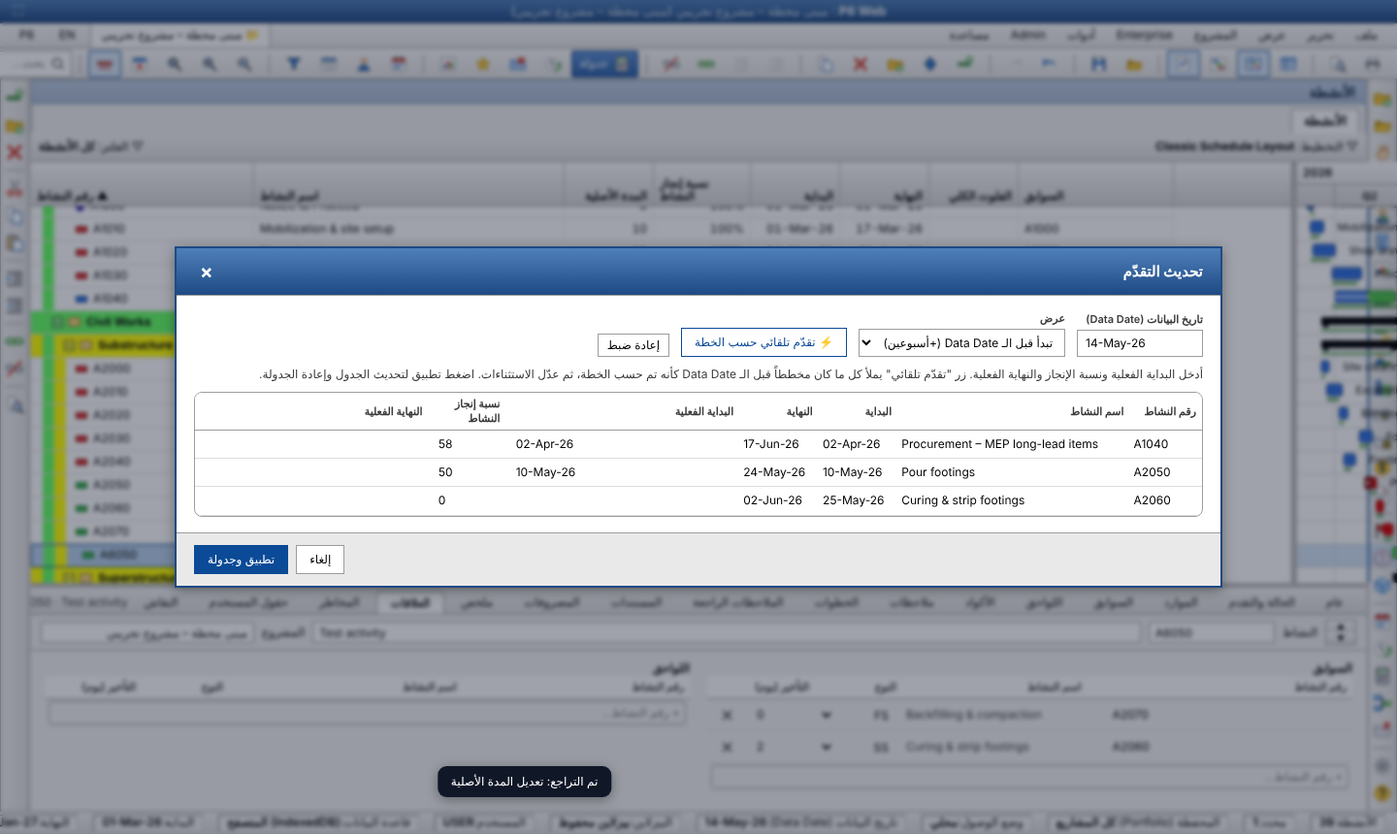
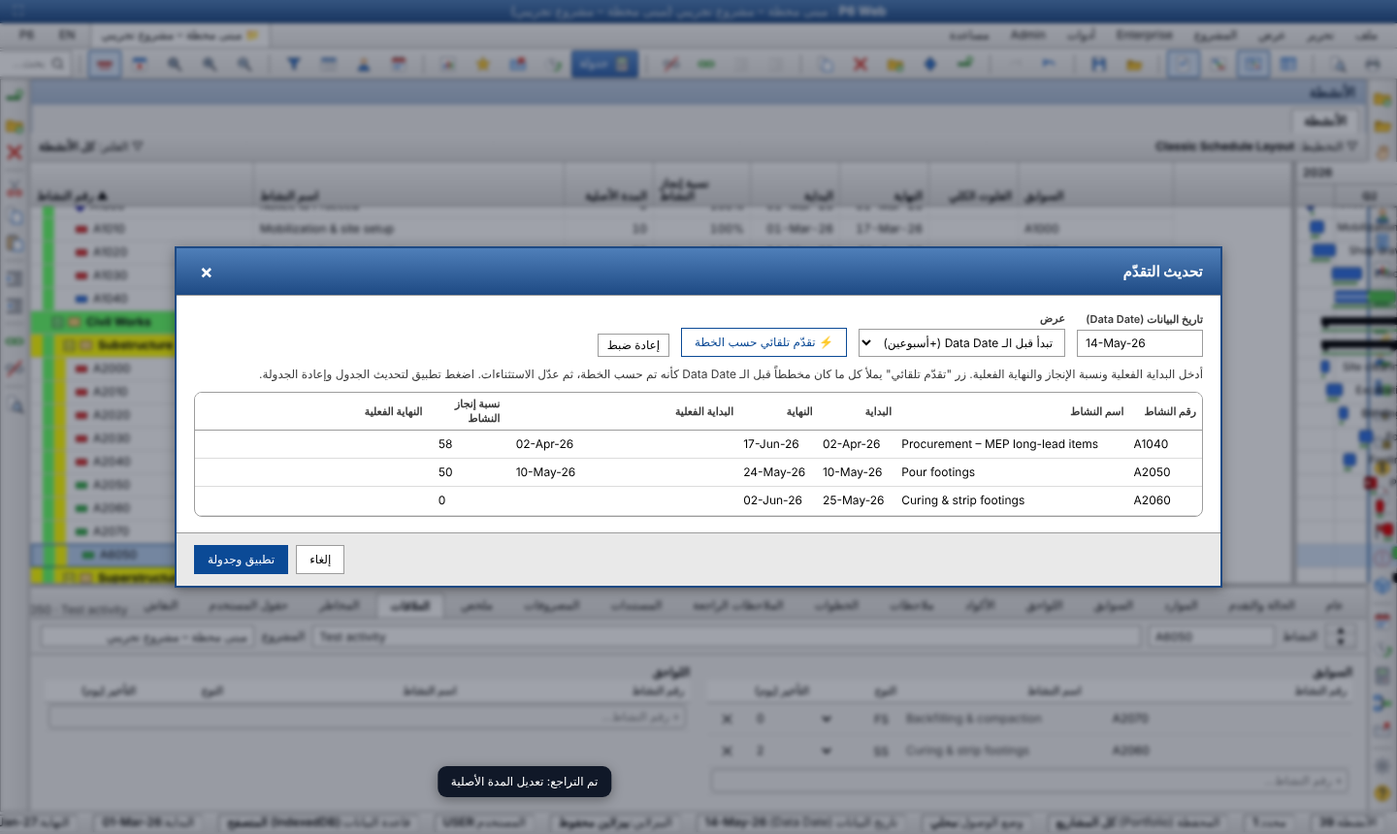
Group and Sort matches P6 (side buttons, Page Break), UI size setting, details tab strip fix (#177)
Claude-Session: https://claude.ai/code/session_01DNKDuzURuxssrGYREb4oVz

diff --git a/p6-web/js/grouping.js b/p6-web/js/grouping.js
@@ -105,7 +105,7 @@
       const cd = L.indent === false ? depth : depth + 1, color = L.color || PAL[li % PAL.length];
       for (const grp of list) {
         const id = 'g:' + path + '/' + li + ':' + grp.v.k;
-        reg(id, grp.ts); rows.push({ kind: 'g', id, level: depth, w: { id, name: grp.v.label, code: '' }, hasKids: true, color });
+        reg(id, grp.ts); rows.push({ kind: 'g', id, level: depth, w: { id, name: grp.v.label, code: '' }, hasKids: true, color, pb: !!L.pbreak });
         S.levelColors[depth] = color;
         if (S.collapsed.has(id) && !o.filtering) continue;
         level(grp.ts, li + 1, cd, path + '/' + id);
@@ -125,19 +125,19 @@
       const out = []; const lv = G.levels;
       lv.forEach((L, i) => {
         const wbs = L.by === 'wbs', color = wbs ? (G.wbsColors || WBS_PAL)[0] : (L.color || PAL[i % PAL.length]);
-        out.push(`<tr data-i="${i}" class="${selI === i ? 'on' : ''}"><td><select data-k="by">${fields.map(([k, l]) => `<option value="${esc(k)}"${L.by === k ? ' selected' : ''}>${esc(wbs && k === 'wbs' ? 'WBS ' + t('grp_level') + ' 1' : l)}</option>`).join('')}<option value="">${esc(t('grp_none'))}</option></select></td><td style="text-align:center"><input type="checkbox" data-k="indent"${L.indent !== false ? ' checked' : ''}></td><td><input data-k="toLevel" value="${esc(wbs ? L.toLevel || 'All' : '')}"${wbs ? '' : ' disabled'} style="width:70px"></td><td><input data-k="interval" value="${esc(L.interval || '')}" placeholder="${/^(es|ef)$/.test(L.by) ? 'Month' : /^(pct|tf|dur)$/.test(L.by) ? '10' : ''}" style="width:90px"></td><td><input type="color" data-k="color" value="${color}"> <span style="color:#666;font-size:11px">8 Arial</span></td></tr>`);
-        if (wbs) for (let w = 1; w < 5; w++) out.push(`<tr class="wl"><td style="color:#888;padding-inline-start:20px">WBS ${esc(t('grp_level'))} ${w + 1}</td><td></td><td></td><td></td><td><input type="color" data-w="${w}" value="${(G.wbsColors || WBS_PAL)[w]}"></td></tr>`);
+        out.push(`<tr data-i="${i}" class="${selI === i ? 'on' : ''}"><td><select data-k="by">${fields.map(([k, l]) => `<option value="${esc(k)}"${L.by === k ? ' selected' : ''}>${esc(wbs && k === 'wbs' ? 'WBS ' + t('grp_level') + ' 1' : l)}</option>`).join('')}<option value="">${esc(t('grp_none'))}</option></select></td><td style="text-align:center"><input type="checkbox" data-k="indent"${L.indent !== false ? ' checked' : ''}></td><td><input data-k="toLevel" value="${esc(wbs ? L.toLevel || 'All' : '')}"${wbs ? '' : ' disabled'} style="width:70px"></td><td><input data-k="interval" value="${esc(L.interval || '')}" placeholder="${/^(es|ef)$/.test(L.by) ? 'Month' : /^(pct|tf|dur)$/.test(L.by) ? '10' : ''}" style="width:90px"></td><td style="text-align:center"><input type="checkbox" data-k="pbreak"${L.pbreak ? ' checked' : ''}></td><td><input type="color" data-k="color" value="${color}"> <span style="color:#666;font-size:11px">8 Arial</span></td></tr>`);
+        if (wbs) for (let w = 1; w < 5; w++) out.push(`<tr class="wl"><td style="color:#888;padding-inline-start:20px">WBS ${esc(t('grp_level'))} ${w + 1}</td><td></td><td></td><td></td><td></td><td><input type="color" data-w="${w}" value="${(G.wbsColors || WBS_PAL)[w]}"></td></tr>`);
       });
-      if (lv.length < 8) out.push(`<tr data-i="${lv.length}" class="${selI === lv.length ? 'on' : ''}"><td><select data-k="by" data-new="1"><option value="">—</option>${fields.map(([k, l]) => `<option value="${esc(k)}">${esc(l)}</option>`).join('')}</select></td><td></td><td></td><td></td><td></td></tr>`);
+      if (lv.length < 8) out.push(`<tr data-i="${lv.length}" class="${selI === lv.length ? 'on' : ''}"><td><select data-k="by" data-new="1"><option value="">—</option>${fields.map(([k, l]) => `<option value="${esc(k)}">${esc(l)}</option>`).join('')}</select></td><td></td><td></td><td></td><td></td><td></td></tr>`);
       return out.join('');
     };
     const draw = () => {
       const L = G.levels[selI] || null;
-      body.innerHTML = `<div class="gd-main"><fieldset><legend>${esc(t('grp_display'))}</legend><label class="chk"><input type="checkbox" id="gd_tot"${G.totals !== false ? ' checked' : ''}> ${esc(t('grp_totals'))}</label><label class="chk" style="margin-inline-start:22px"><input type="checkbox" id="gd_grand"${G.grand ? ' checked' : ''}${G.totals === false ? ' disabled' : ''}> ${esc(t('grp_grand'))}</label><label class="chk" style="margin-inline-start:22px"><input type="checkbox" id="gd_sum"${G.summ ? ' checked' : ''}> ${esc(t('grp_summ'))}</label><label class="chk"><input type="checkbox" id="gd_shr"${G.shrink ? ' checked' : ''}> ${esc(t('grp_shrink'))}</label></fieldset>
-        <fieldset><legend>${esc(t('grp_by'))}</legend><div class="gd-tbl"><table class="mini"><thead><tr><th>${esc(t('grp_by'))}</th><th style="width:60px">${esc(t('grp_indent'))}</th><th style="width:90px">${esc(t('grp_tolevel'))}</th><th style="width:110px">${esc(t('grp_interval'))}</th><th style="width:130px">${esc(t('grp_fontcolor'))}</th></tr></thead><tbody>${rowsHtml()}</tbody></table></div></fieldset>
+      body.innerHTML = `<div class="gd-wrap"><div class="gd-main"><fieldset><legend>${esc(t('grp_display'))}</legend><label class="chk"><input type="checkbox" id="gd_tot"${G.totals !== false ? ' checked' : ''}> ${esc(t('grp_totals'))}</label><label class="chk" style="margin-inline-start:22px"><input type="checkbox" id="gd_grand"${G.grand ? ' checked' : ''}${G.totals === false ? ' disabled' : ''}> ${esc(t('grp_grand'))}</label><label class="chk" style="margin-inline-start:22px"><input type="checkbox" id="gd_sum"${G.summ ? ' checked' : ''}> ${esc(t('grp_summ'))}</label><label class="chk"><input type="checkbox" id="gd_shr"${G.shrink ? ' checked' : ''}> ${esc(t('grp_shrink'))}</label></fieldset>
+        <fieldset><legend>${esc(t('grp_by'))}</legend><div class="gd-tbl"><table class="mini"><thead><tr><th>${esc(t('grp_by'))}</th><th style="width:60px">${esc(t('grp_indent'))}</th><th style="width:90px">${esc(t('grp_tolevel'))}</th><th style="width:110px">${esc(t('grp_interval'))}</th><th style="width:70px">${esc(t('grp_pbreak'))}</th><th style="width:130px">${esc(t('grp_fontcolor'))}</th></tr></thead><tbody>${rowsHtml()}</tbody></table></div></fieldset>
         <fieldset><legend>${esc(t('grp_options'))}</legend><label class="chk"><input type="checkbox" id="go_he"${L && L.hideEmpty ? ' checked' : ''}${L && /^ac:/.test(L.by) ? '' : ' disabled'}> ${esc(t('grp_hideempty'))}</label><label class="chk"><input type="checkbox" id="go_al"${L && L.alpha ? ' checked' : ''}${L && L.by !== 'wbs' ? '' : ' disabled'}> ${esc(t('grp_alpha'))}</label><div style="margin-top:6px">${esc(t('grp_show'))}:</div>
         ${['title', 'id', 'name'].map((k) => `<label class="chk" style="margin-inline-start:12px"><input type="checkbox" data-sh="${k}"${L && L.show && L.show[k] ? ' checked' : ''}${L && /^ac:/.test(L.by) ? '' : ' disabled'}> ${esc(t('grp_show_' + k))}</label>`).join('')}</fieldset></div>
-        <div class="cd-btns"><button class="btn pri" data-a="ok">✔ ${esc(t('ok'))}</button><button class="btn" data-a="cancel">⦸ ${esc(t('cancel'))}</button><button class="btn" data-a="apply">${esc(t('apply'))}</button><button class="btn" data-a="del"${L ? '' : ' disabled'}>${esc(t('delete'))}</button><button class="btn" data-a="sort">${esc(t('grp_sort'))}</button><button class="btn" data-a="default">▶ ${esc(t('default'))}</button><button class="btn" data-a="help">? ${esc(t('help'))}</button></div>`;
+<div class="gd-side"><button class="btn pri" data-a="ok"><b class="gi" style="color:#2e9b2e">✔</b>${esc(t('ok'))}</button><button class="btn" data-a="cancel"><b class="gi" style="color:#d03a2f">⦸</b>${esc(t('cancel'))}</button><hr><button class="btn" data-a="apply"><b class="gi" style="color:#2f6fc4">▤</b>${esc(t('apply'))}</button><button class="btn" data-a="del"${L ? '' : ' disabled'}><b class="gi" style="color:#d03a2f">✖</b>${esc(t('delete'))}</button><hr><button class="btn" data-a="sort"><b class="gi" style="color:#2b3340">▭</b>${esc(t('grp_sort'))}…</button><button class="btn" data-a="default"><b class="gi" style="color:#2e9b2e">▶</b>${esc(t('default'))}</button><hr><button class="btn" data-a="help"><b class="gi" style="color:#e0a800">?</b>${esc(t('help'))}</button></div></div>`;
     };
     draw();
     const m = D.modal({ title: t('group_sort').replace('…', ''), cls: 'wide grpmodal', body, buttons: [], sticky: true });
@@ -152,7 +152,7 @@
         const i = +x.closest('tr').dataset.i; let L = G.levels[i];
         if (x.dataset.new) { if (x.value) { G.levels.push(newLevel(x.value)); selI = G.levels.length - 1; } }
         else if (x.dataset.k === 'by') { if (!x.value) G.levels.splice(i, 1); else L.by = x.value; if (L && L.by === 'wbs') L.toLevel = 'All'; }
-        else if (x.dataset.k === 'indent') L.indent = x.checked; else if (x.dataset.k === 'color') { if (L.by === 'wbs') { G.wbsColors = (G.wbsColors || WBS_PAL).slice(); G.wbsColors[0] = x.value; } else L.color = x.value; }
+        else if (x.dataset.k === 'indent') L.indent = x.checked; else if (x.dataset.k === 'pbreak') L.pbreak = x.checked; else if (x.dataset.k === 'color') { if (L.by === 'wbs') { G.wbsColors = (G.wbsColors || WBS_PAL).slice(); G.wbsColors[0] = x.value; } else L.color = x.value; }
         else L[x.dataset.k] = x.value;
       }
       draw();

diff --git a/p6-web/js/i18n2.js b/p6-web/js/i18n2.js
@@ -52,5 +52,7 @@
     grp_help_html: ['<p>Choose what to group by (WBS, Status, Float, Activity Codes…) up to 8 levels. <b>Sort</b> sets the order inside groups. Group bands show totals for cost, units and durations.</p>', '<p>اختر معيار التجميع (WBS، الحالة، الفلوت، Activity Codes…) حتى 8 مستويات. زر <b>Sort</b> يحدد الترتيب داخل المجموعات. صفوف المجموعات تعرض إجماليات التكلفة والوحدات والمدد.</p>'],
     // menus (round: Tools / Enterprise / Admin)
     applyact_done: ['Actuals applied to {0} activities', 'تم تطبيق الفعلي على {0} نشاط'], gc_all: ['All visible activities', 'كل الأنشطة المعروضة'], gc_done: ['{0} activities changed', 'تم تغيير {0} نشاط'], gc_field: ['Field', 'الحقل'], gc_find: ['Find (optional)', 'بحث (اختياري)'], gc_hint: ['Name: replaces "Find" with the value, or prefixes the value if Find is empty. Calendar: type the calendar name.', 'الاسم: يستبدل نص البحث بالقيمة أو يضيفها كبادئة. التقويم: اكتب اسم التقويم.'], gc_scope: ['Apply to', 'تطبيق على'], gc_sel: ['Selected activities', 'الأنشطة المحددة'], gc_value: ['New value', 'القيمة الجديدة'], mi_actdetails: ['Activity Details', 'تفاصيل النشاط'], mi_admincat: ['Admin Categories…', 'تصنيفات الإدارة…'], mi_adminprefs: ['Admin Preferences…', 'تفضيلات الإدارة…'], mi_applyact: ['Apply Actuals…', 'تطبيق الفعلي (Apply Actuals)…'], mi_asgcodes: ['Assignment Codes…', 'Assignment Codes…'], mi_barsopts: ['Bar Chart Options…', 'خيارات المخطط الشريطي…'], mi_checker: ['Project Checker…', 'فاحص المشروع…'], mi_currency: ['Currencies…', 'العملات…'], mi_curves: ['Resource Curves…', 'منحنيات الموارد…'], mi_disreorg: ['Disable Auto-Reorganization', 'تعطيل إعادة التنظيم التلقائي'], mi_eps: ['Enterprise Project Structure…', 'هيكل المشاريع (EPS)…'], mi_extapps: ['External Applications…', 'تطبيقات خارجية…'], mi_filters: ['Filters', 'الفلاتر'], mi_finperiod: ['Financial Period Calendars…', 'تقاويم الفترات المالية…'], mi_funding: ['Funding Sources…', 'مصادر التمويل…'], mi_gchange: ['Global Change…', 'تغيير شامل (Global Change)…'], mi_hide: ['Hide', 'إخفاء'], mi_issuenav: ['Issue Navigator…', 'متصفح المشكلات…'], mi_levelres: ['Level Resources…', 'تسوية الموارد (Level Resources)…'], mi_obs: ['OBS', 'OBS'], mi_portfolios: ['Project Portfolios…', 'محافظ المشاريع…'], mi_pub_web: ['Publish to Web…', 'نشر على الويب…'], mi_publish: ['Publish', 'نشر'], mi_recalc: ['Recalculate Assignment Costs…', 'إعادة حساب تكاليف التعيينات…'], mi_reportwiz: ['Report Wizard…', 'معالج التقارير…'], mi_rescodes: ['Resource Codes…', 'Resource Codes…'], mi_rolecodes: ['Role Codes…', 'Role Codes…'], mi_schedcmp: ['Schedule Comparison', 'مقارنة الجداول'], mi_schedopts: ['Schedule Options…', 'خيارات الجدولة…'], mi_shifts: ['Resource Shifts…', 'ورديات الموارد…'], mi_steptpl: ['Activity Step Templates…', 'قوالب خطوات النشاط…'], mi_storedimg: ['Stored Images…', 'الصور المخزنة…'], mi_storeperiod: ['Store Period Performance…', 'تخزين أداء الفترة…'], mi_sum_proj: ['Summarize Projects…', 'تلخيص المشاريع…'], mi_sum_wbs: ['Summarize WBS…', 'تلخيص WBS…'], mi_summarize: ['Summarize', 'تلخيص'], mi_topdown: ['Top Down Estimation…', 'التقدير من أعلى لأسفل…'], mi_tracking: ['Tracking', 'التتبع (Tracking)'], mi_visualizer: ['Visualizer', 'Visualizer'], na_body: ['This P6 feature is listed to match the menu, but it needs the P6 enterprise server / multi-user database (or a large separate engine) and is not available in this static web version.', 'هذه الميزة موجودة في القائمة لتطابق P6 لكنها تحتاج سيرفر/قاعدة بيانات P6 متعددة المستخدمين (أو محرك منفصل كبير) وهي غير متاحة في هذه النسخة الثابتة.'], recalc_done: ['Assignment costs recalculated', 'تمت إعادة حساب التكاليف'],
+    ui_size: ['Display size (resolution)', 'حجم الواجهة (الريزوليوشن)'], ui_auto: ['Auto (fit screen)', 'تلقائي (يناسب الشاشة)'],
+    grp_pbreak: ['Page Break', 'فاصل صفحة'],
   });
 })(window);

diff --git a/p6-web/js/p6ui.js b/p6-web/js/p6ui.js
@@ -19,9 +19,10 @@
     const act = items.filter(Boolean);
     m.innerHTML = act.map((it, i) => (it === '-' ? '<hr>' : `<div class="pi${it.dis ? ' dis' : ''}" data-i="${i}"><span class="ico2">${it.i && P6.hasIcon(it.i) ? P6.icon(it.i) : it.ck ? '✓' : ''}</span>${esc(it.l)}${it.sub ? '<span class="ar">▸</span>' : it.k ? `<span class="k">${esc(it.k)}</span>` : ''}</div>`)).join('');
     document.body.appendChild(m);
-    const w = m.offsetWidth, h = m.offsetHeight;
-    m.style.left = Math.max(2, Math.min(x, innerWidth - w - 4)) + 'px';
-    m.style.top = Math.max(2, Math.min(y, innerHeight - h - 4)) + 'px';
+    const zz = P6.uiZoom ? P6.uiZoom() : 1; x /= zz; y /= zz;
+    const w = m.offsetWidth, h = m.offsetHeight, iw = innerWidth / zz, ih = innerHeight / zz;
+    m.style.left = Math.max(2, Math.min(x, iw - w - 4)) + 'px';
+    m.style.top = Math.max(2, Math.min(y, ih - h - 4)) + 'px';
     const killDeeper = () => document.querySelectorAll('.pmenu').forEach((e) => { if (+e.dataset.level > level) e.remove(); });
     m.addEventListener('mouseover', (e) => {
       const pi = e.target.closest('.pi'); if (!pi) return;
@@ -247,11 +248,12 @@
     const F = App.cfg;
     const body = `<div class="grid2"><div class="fld"><label>${esc(t('language'))}</label><select id="pf_l"><option value="ar"${F.lang === 'ar' ? ' selected' : ''}>العربية</option><option value="en"${F.lang === 'en' ? ' selected' : ''}>English</option></select></div>
       <div class="fld"><label>${esc(t('theme'))}</label><select id="pf_t"><option value="p6"${F.theme === 'p6' ? ' selected' : ''}>P6 Classic</option><option value="light"${F.theme === 'light' ? ' selected' : ''}>${esc(t('th_light'))}</option><option value="dark"${F.theme === 'dark' ? ' selected' : ''}>${esc(t('th_dark'))}</option></select></div></div>
+      <div class="fld" style="margin-top:10px;max-width:260px"><label>${esc(t('ui_size'))}</label><select id="pf_z">${['auto', 70, 80, 90, 100, 110, 125, 150].map((z) => `<option value="${z}"${String(F.uiScale == null ? 'auto' : F.uiScale) === String(z) ? ' selected' : ''}>${z === 'auto' ? esc(t('ui_auto')) : z + '%'}</option>`).join('')}</select></div>
       <div class="fld" style="margin-top:10px;max-width:260px"><label>${esc(t('user'))}</label><input id="pf_u" dir="auto" value="${esc(F.user || 'USER')}"></div>
       <label class="chk" style="margin-top:10px"><input type="checkbox" id="pf_a"${F.auto ? ' checked' : ''}> ${esc(t('auto_schedule'))}</label>
       <div style="margin-top:14px;display:flex;gap:8px;flex-wrap:wrap"><button class="btn sm" id="pf_reset">${esc(t('reset_layout'))}</button><button class="btn sm dng" id="pf_wipe">${esc(t('wipe_data'))}</button></div>`;
     const m = modal({ title: t('prefs'), cls: 'mid', body, buttons: [{ label: t('cancel'), fn: () => {} }, { label: t('save'), cls: 'pri', fn: (c, el) => {
-      F.auto = $('#pf_a', el).checked; F.user = $('#pf_u', el).value.trim() || 'USER'; F.theme = $('#pf_t', el).value; const l = $('#pf_l', el).value; App.saveCfg(); App.setLang(l);
+      F.auto = $('#pf_a', el).checked; F.user = $('#pf_u', el).value.trim() || 'USER'; F.theme = $('#pf_t', el).value; F.uiScale = $('#pf_z', el).value; App.applyScale && App.applyScale(); const l = $('#pf_l', el).value; App.saveCfg(); App.setLang(l);
     } }] });
     m.el.addEventListener('click', async (e) => {
       if (e.target.id === 'pf_reset') { App.applyLayout('classic'); App.cfg.show.spot = false; App.saveCfg(); m.close(); }

diff --git a/p6-web/js/print.js b/p6-web/js/print.js
@@ -60,10 +60,11 @@
     if (wantGantt && c.fit) px = Math.max(0.2, (innerW - (wantTable ? Math.min(tableW, innerW * 0.55) : 0) - 8) / span);
     if (wantGantt) { g = ganttSvg(rows, px, RH); ganttW = g.W; }
     const thead = cols.map((x) => `<div class="pvh" style="width:${x.w}px">${esc(x.title || t('col_' + x.k))}</div>`).join('');
-    const trs = rows.map((row) => {
+    const wbsPb = P6.normGrp && P6.normGrp(App.cfg).levels.some((L) => L.by === 'wbs' && L.pbreak);
+    const trs = rows.map((row, ri) => {
       const lvl = row.kind !== 't' ? row.level % 5 : -1;
       const style = row.kind !== 't' ? `background:${WCOL[lvl][0]};color:${WCOL[lvl][1]};font-weight:700` : '';
-      return `<div class="pvr" style="height:${RH}px;${style}">${cols.map((x, i) => `<div class="pvc" style="width:${x.w}px">${i === 0 ? '<span style="display:inline-block;width:' + row.level * 10 + 'px"></span>' : ''}${esc(row.kind !== 't' && i === 0 ? row.w.name : cellText(x.k, row))}</div>`).join('')}</div>`;
+      return `${(row.pb || (row.kind === 'w' && row.level === 0 && wbsPb && ri > 0)) ? '<div class="pvpb" title="Page break"></div>' : ''}<div class="pvr" style="height:${RH}px;${style}">${cols.map((x, i) => `<div class="pvc" style="width:${x.w}px">${i === 0 ? '<span style="display:inline-block;width:' + row.level * 10 + 'px"></span>' : ''}${esc(row.kind !== 't' && i === 0 ? row.w.name : cellText(x.k, row))}</div>`).join('')}</div>`;
     }).join('');
     const sheetW = (wantTable ? tableW : 0) + (wantGantt ? ganttW : 0);
     const scale = c.fit ? Math.min(1, innerW / sheetW) : 1;

diff --git a/p6-web/css/app.css b/p6-web/css/app.css
@@ -15,7 +15,7 @@
 html,body{height:100%;margin:0}
 body{font:13px/1.35 var(--font);background:var(--bg);color:var(--text);overflow:hidden}
 button,input,select,textarea{font:inherit;color:inherit}
-#app{display:flex;flex-direction:column;height:100vh}
+#app{display:flex;flex-direction:column;height:calc(100vh / var(--uz,1))}
 .spacer{flex:1}
 svg{display:block}
 /* top bar */
@@ -457,3 +457,15 @@ table.pw thead th{position:sticky;top:0;z-index:2;background:linear-gradient(#fd
 .grpdlg fieldset label.chk,.schdlg label.chk{display:inline-flex;align-items:center;gap:6px;margin-inline-end:18px}
 .grpdlg fieldset{min-width:0}
 .pmenu .ico2 svg.pi{width:18px;height:18px;display:block;padding:0;margin:0;background:none;border:0}
+
+/* details tab strip: no overlay scrollbar that steals clicks; scrolls with wheel / drag */
+.dtabs{overflow-x:auto;overflow-y:hidden;scrollbar-width:none;min-height:28px;height:auto!important;align-items:flex-end}
+.dtabs::-webkit-scrollbar{display:none;height:0}
+.dtab{flex:none;line-height:1.3;padding-block:5px!important}
+
+.grpdlg .gd-wrap{display:flex;gap:12px;align-items:flex-start}.grpdlg .gd-main{flex:1;min-width:0}
+.grpdlg .gd-side{display:flex;flex-direction:column;gap:6px;width:120px}.grpdlg .gd-side hr{border:0;margin:2px 0}
+.grpdlg .gd-side .btn{width:100%!important;justify-content:flex-start;display:flex!important;gap:8px}.grpdlg .gi{font-size:16px;width:18px;text-align:center}
+.grpdlg{min-width:760px}
+@media print{.pvpb{break-before:page}}
+.pvpb{border-top:2px dashed #c33;height:0}

diff --git a/p6-web/js/menus3.js b/p6-web/js/menus3.js
@@ -119,6 +119,19 @@
     });
   };
 
+
+  // ---- UI size / resolution: Auto fits narrow screens, or pick a fixed size (stored in cfg.uiScale) ----
+  P6.uiZoom = () => { const z = parseFloat(document.documentElement.style.zoom); return z > 0 ? z : 1; };
+  App.applyScale = function () {
+    const v = F().uiScale == null ? 'auto' : F().uiScale; let z = 1;
+    if (v === 'auto') z = innerWidth < 1400 ? Math.max(0.7, Math.round((innerWidth / 1400) * 20) / 20) : 1; else z = Math.max(0.6, Math.min(1.6, parseFloat(v) / 100 || 1));
+    document.documentElement.style.zoom = z === 1 ? '' : String(z); document.documentElement.style.setProperty('--uz', String(z));
+    if (App.p && App.refresh) { App.refresh(); App.drawLayoutBar && App.drawLayoutBar(); }
+  };
+  addEventListener('resize', () => { if ((F().uiScale == null || F().uiScale === 'auto') && !App._rz) { App._rz = setTimeout(() => { App._rz = 0; App.applyScale(); }, 250); } });
+
+  document.addEventListener('wheel', (e) => { const d = e.target.closest && e.target.closest('.dtabs'); if (d && d.scrollWidth > d.clientWidth) { d.scrollLeft += e.deltaY || e.deltaX; e.preventDefault(); } }, { passive: false });
+
   // ---- Gantt chart right-click menu ----
   App.chartMenu = function (x, y) {
     const sub = (l, i, fn, o) => Object.assign({ l, i, fn }, o || {});

diff --git a/p6-web/js/app.js b/p6-web/js/app.js
@@ -1377,7 +1377,7 @@
     API.gantt = gantt; API.S = S;
     gantt.sc.addEventListener('scroll', () => { renderRows(); }, { passive: true });
     bindTable(); bindDetails(); bindSplitters();
-    applyView(); buildMenus(); buildToolbar(); App.initP6UI(); loadRecent(); App.applyFont(); App.applyBars(); App.drawWinTabs(); setTimeout(() => App.applyHint(), 0); if (P6.bindDetExtra) P6.bindDetExtra(); layoutDetails();
+    applyView(); buildMenus(); buildToolbar(); App.initP6UI(); loadRecent(); App.applyFont(); App.applyBars(); App.applyScale && App.applyScale(); App.drawWinTabs(); setTimeout(() => App.applyHint(), 0); if (P6.bindDetExtra) P6.bindDetExtra(); layoutDetails();
     $('#langBtn').onclick = () => API.setLang(S.cfg.lang === 'ar' ? 'en' : 'ar');
     $('#themeBtn').onclick = () => { S.cfg.theme = ({ p6: 'light', light: 'dark', dark: 'p6' })[S.cfg.theme] || 'p6'; saveCfg(); applyLang(); };
     $('#projBtn').onclick = () => API.dialogs.projects();

diff --git a/p6-web/README.md b/p6-web/README.md
@@ -21,7 +21,7 @@ A free, static web app (no build, no server, no data upload) that **opens, edits
 ## Schedule / Filters / Group and Sort / قوائم Tools-Enterprise-Admin
 - **Schedule (F9)**: نافذة P6 (Data Date، Forecast start، Log to file/HTML، Overwrite/Append، View Log، **Options**: Retained Logic / Progress Override، Critical = Total Float أو Longest Path، Lag calendar، Total Float from).
 - **Filters**: Default / Global / User Defined، اختيار أكثر من فلتر مع All / Any، New/Modify لبناء فلتر بشروط، Make Global.
-- **Group and Sort**: حتى 8 مستويات (WBS بمستوياته، Status، Float، Activity Codes…)، ألوان وإزاحة وإجماليات، وSort متعدد. (خيار Page Break غير موجود عمداً.)
+- **Group and Sort**: حتى 8 مستويات (WBS بمستوياته، Status، Float، Activity Codes…)، ألوان وإزاحة وإجماليات، وSort متعدد. عمود Page Break موجود (يظهر كخط فاصل في المعاينة وينفّذ فاصل صفحة عند الطباعة من المتصفح).
 - أزرار شريط الأدوات بأسهم منسدلة (Bars, Columns▾, Timescale, Filter▾, Group&Sort▾, #▾) وقوائم Layout وزر الفأرة الأيمن على الـ Gantt.
 - قوائم Tools / Enterprise / Admin بنفس ترتيب P6. الميزات الفعلية: Schedule, Check Schedule, Apply Actuals, Update Progress, Recalculate Costs, Global Change, Thresholds, Issues, Reports, Calendars, Codes, UDF, Roles, Cost Accounts. أما Level Resources وSummarize وVisualizer وPublish وEPS/OBS وغيرها فمعروضة في القائمة لكنها تظهر رسالة أنها غير متاحة في النسخة الثابتة.
 
